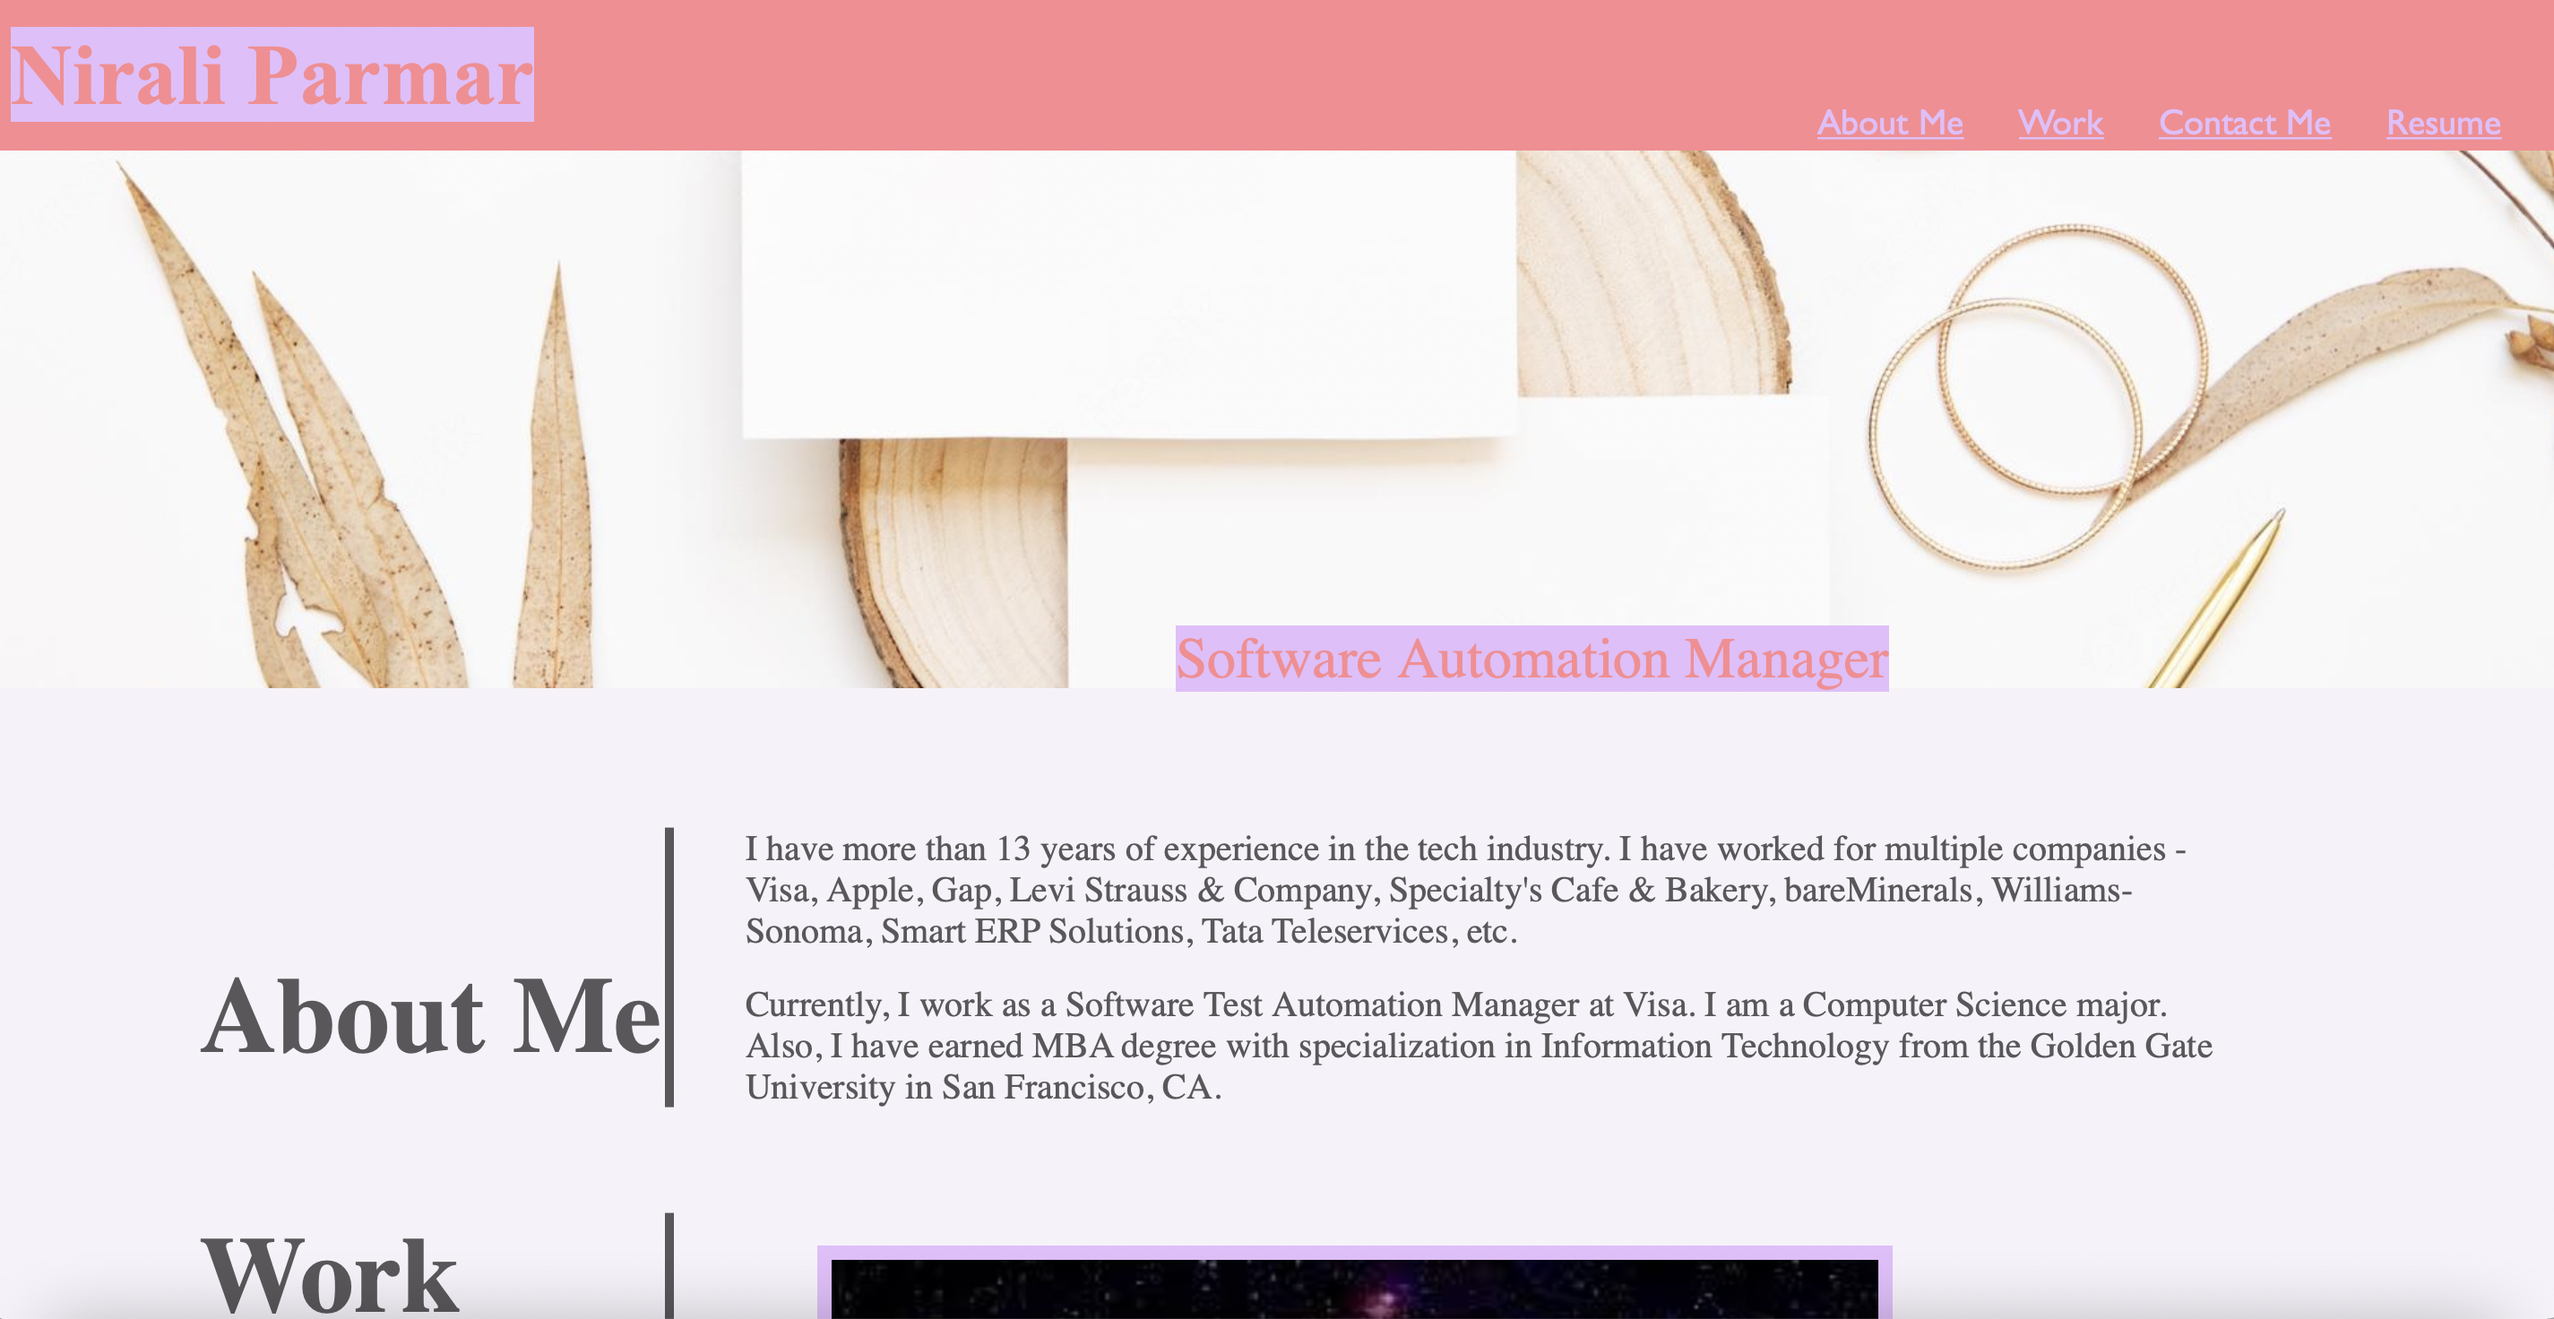
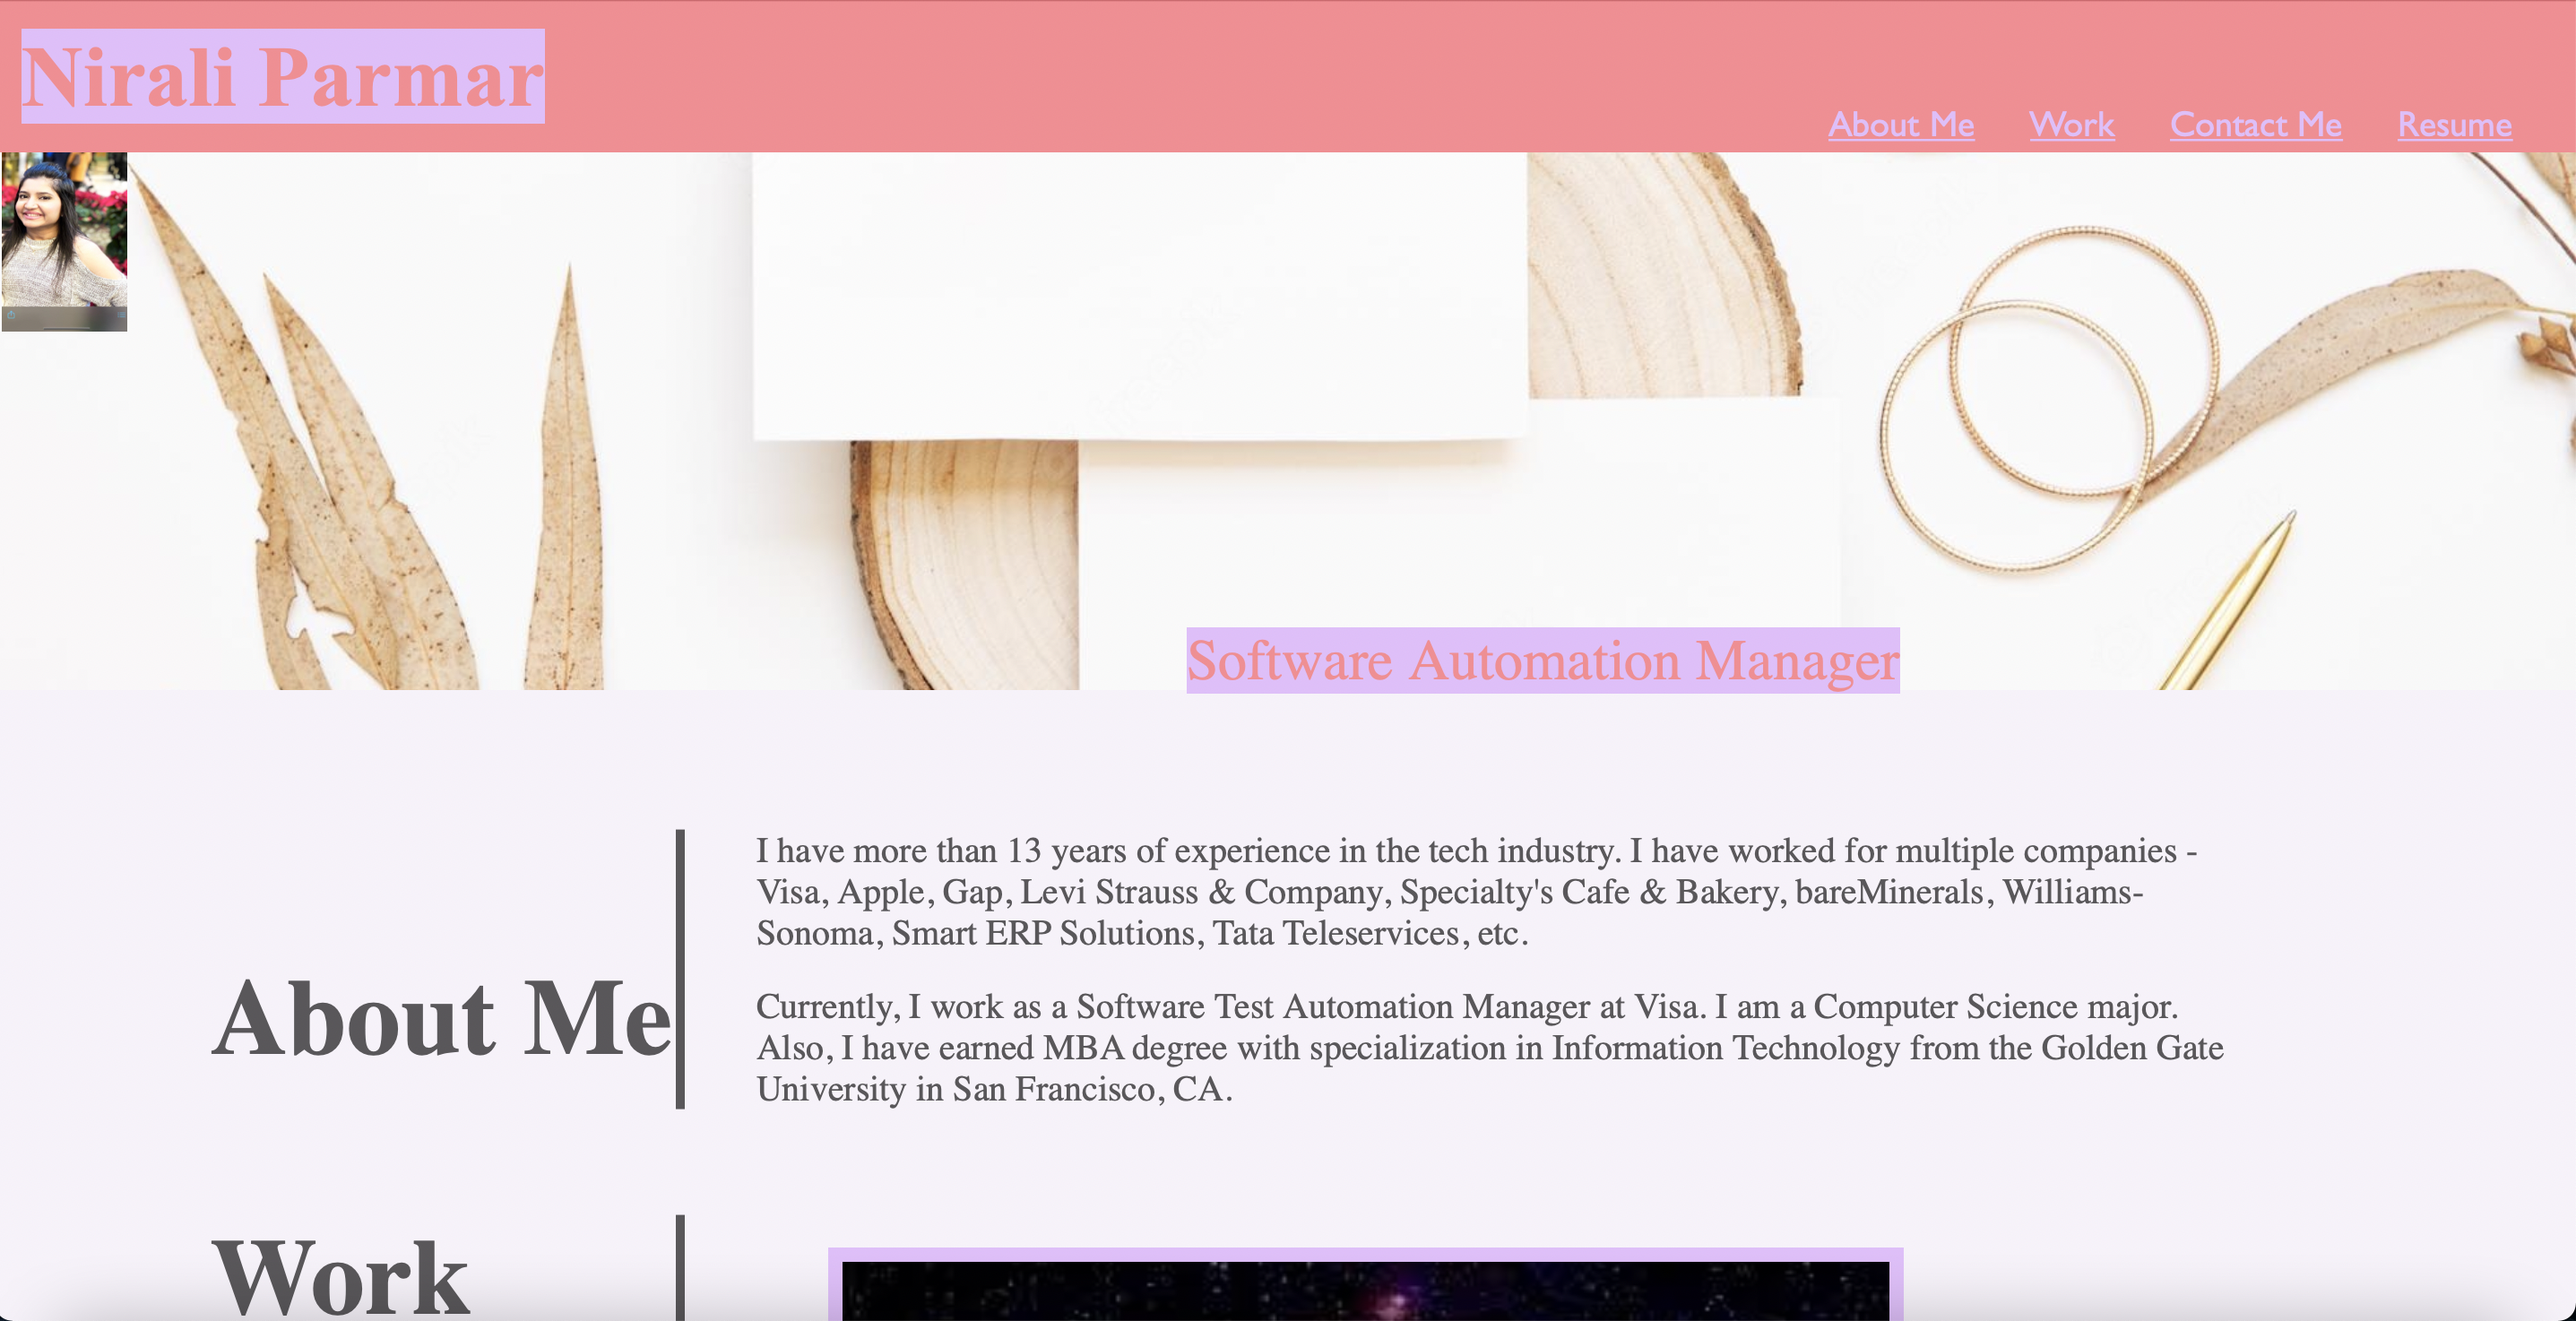
Updates ReadMe file and screenshot

diff --git a/README.md b/README.md
@@ -24,8 +24,14 @@ In this challenge, I have developed my portfolio website. This website has html 
 
 ![image](./Assets/images/screenshot.jpg)
 
+The Github link:
+
+https://github.com/niralikap/challenge-jun-27
+
 The website link:
 
 https://niralikap.github.io/challenge-jun-27/
+
+
 
 
